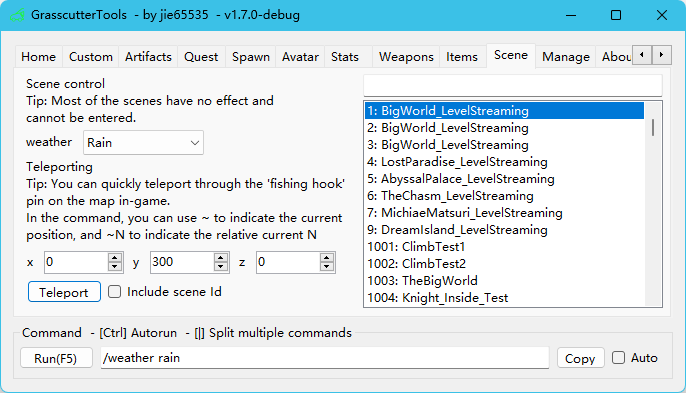
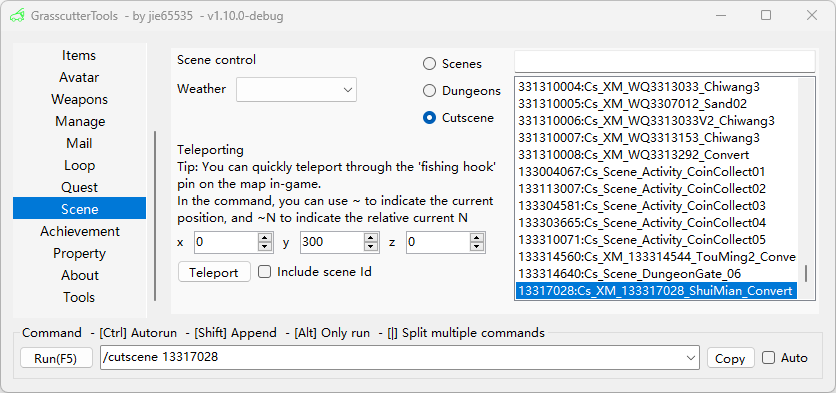
Update Cutscene screenshot

diff --git a/README_zh-cn.md b/README_zh-cn.md
@@ -17,7 +17,10 @@
 
 > **Warning**: 应用程序的外观可能与截图上的不同。它也可能包含翻译错误和缺乏某些资源。**我们欢迎各位为此工具做出贡献并<a href="./Source/GrasscutterTools/Resources/zh-cn">改进</a> : )**
 
-## Update log
+## 更新概要
+
+### GrasscutterTools-v1.10
+![Cutscene](Doc/Screenshots/7-ChangeScene.png)
 
 ### GrasscutterTools-v1.9
 ![Achievement Page](Doc/Screenshots/19-AchievementPage.png)

diff --git a/README.md b/README.md
@@ -19,6 +19,9 @@ Support 简体中文, 繁體中文, English and Русский languages.
 
 ## Update log
 
+### GrasscutterTools-v1.10
+![Cutscene](Doc/Screenshots-en/7-ChangeScene.png)
+
 ### GrasscutterTools-v1.9
 ![Achievement Page](Doc/Screenshots-en/19-AchievementPage.png)
 

diff --git a/README_zh-tw.md b/README_zh-tw.md
@@ -19,6 +19,9 @@
 
 ## 更新日誌
 
+### GrasscutterTools-v1.10
+![Cutscene](Doc/Screenshots-tw/7-ChangeScene.png)
+
 ### GrasscutterTools-v1.9
 ![Achievement Page](Doc/Screenshots-tw/19-AchievementPage.png)
 
